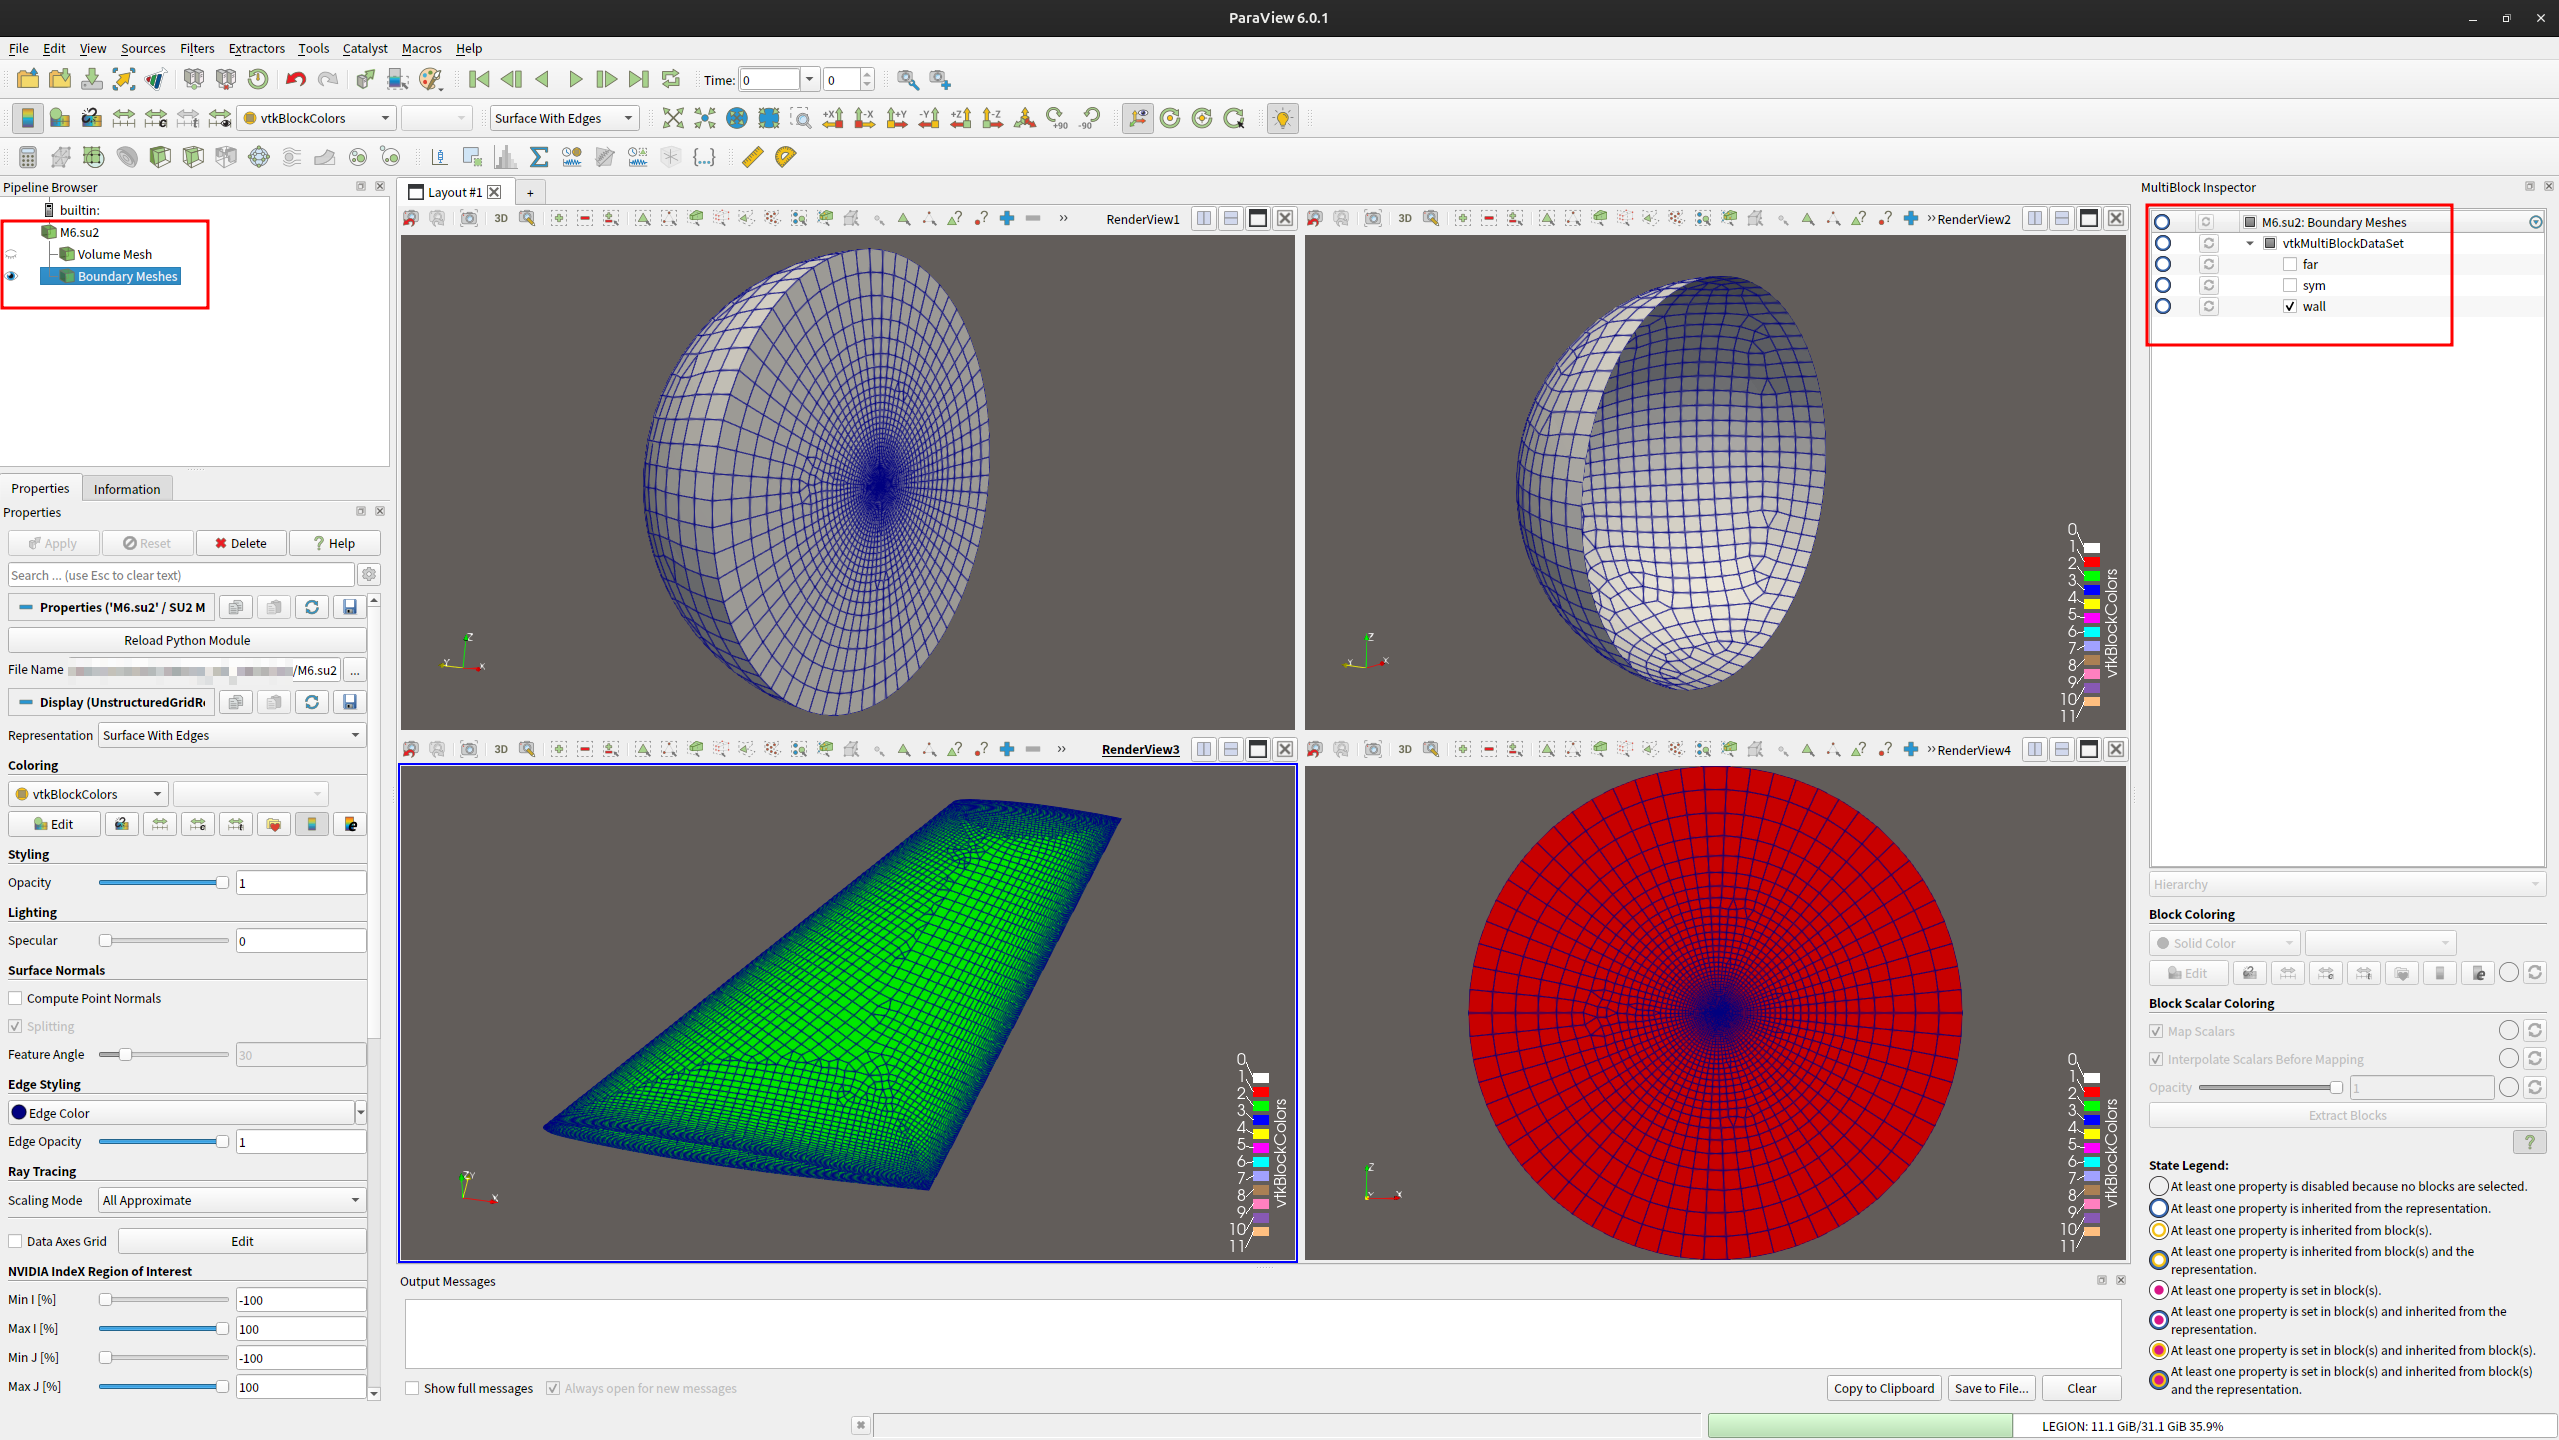
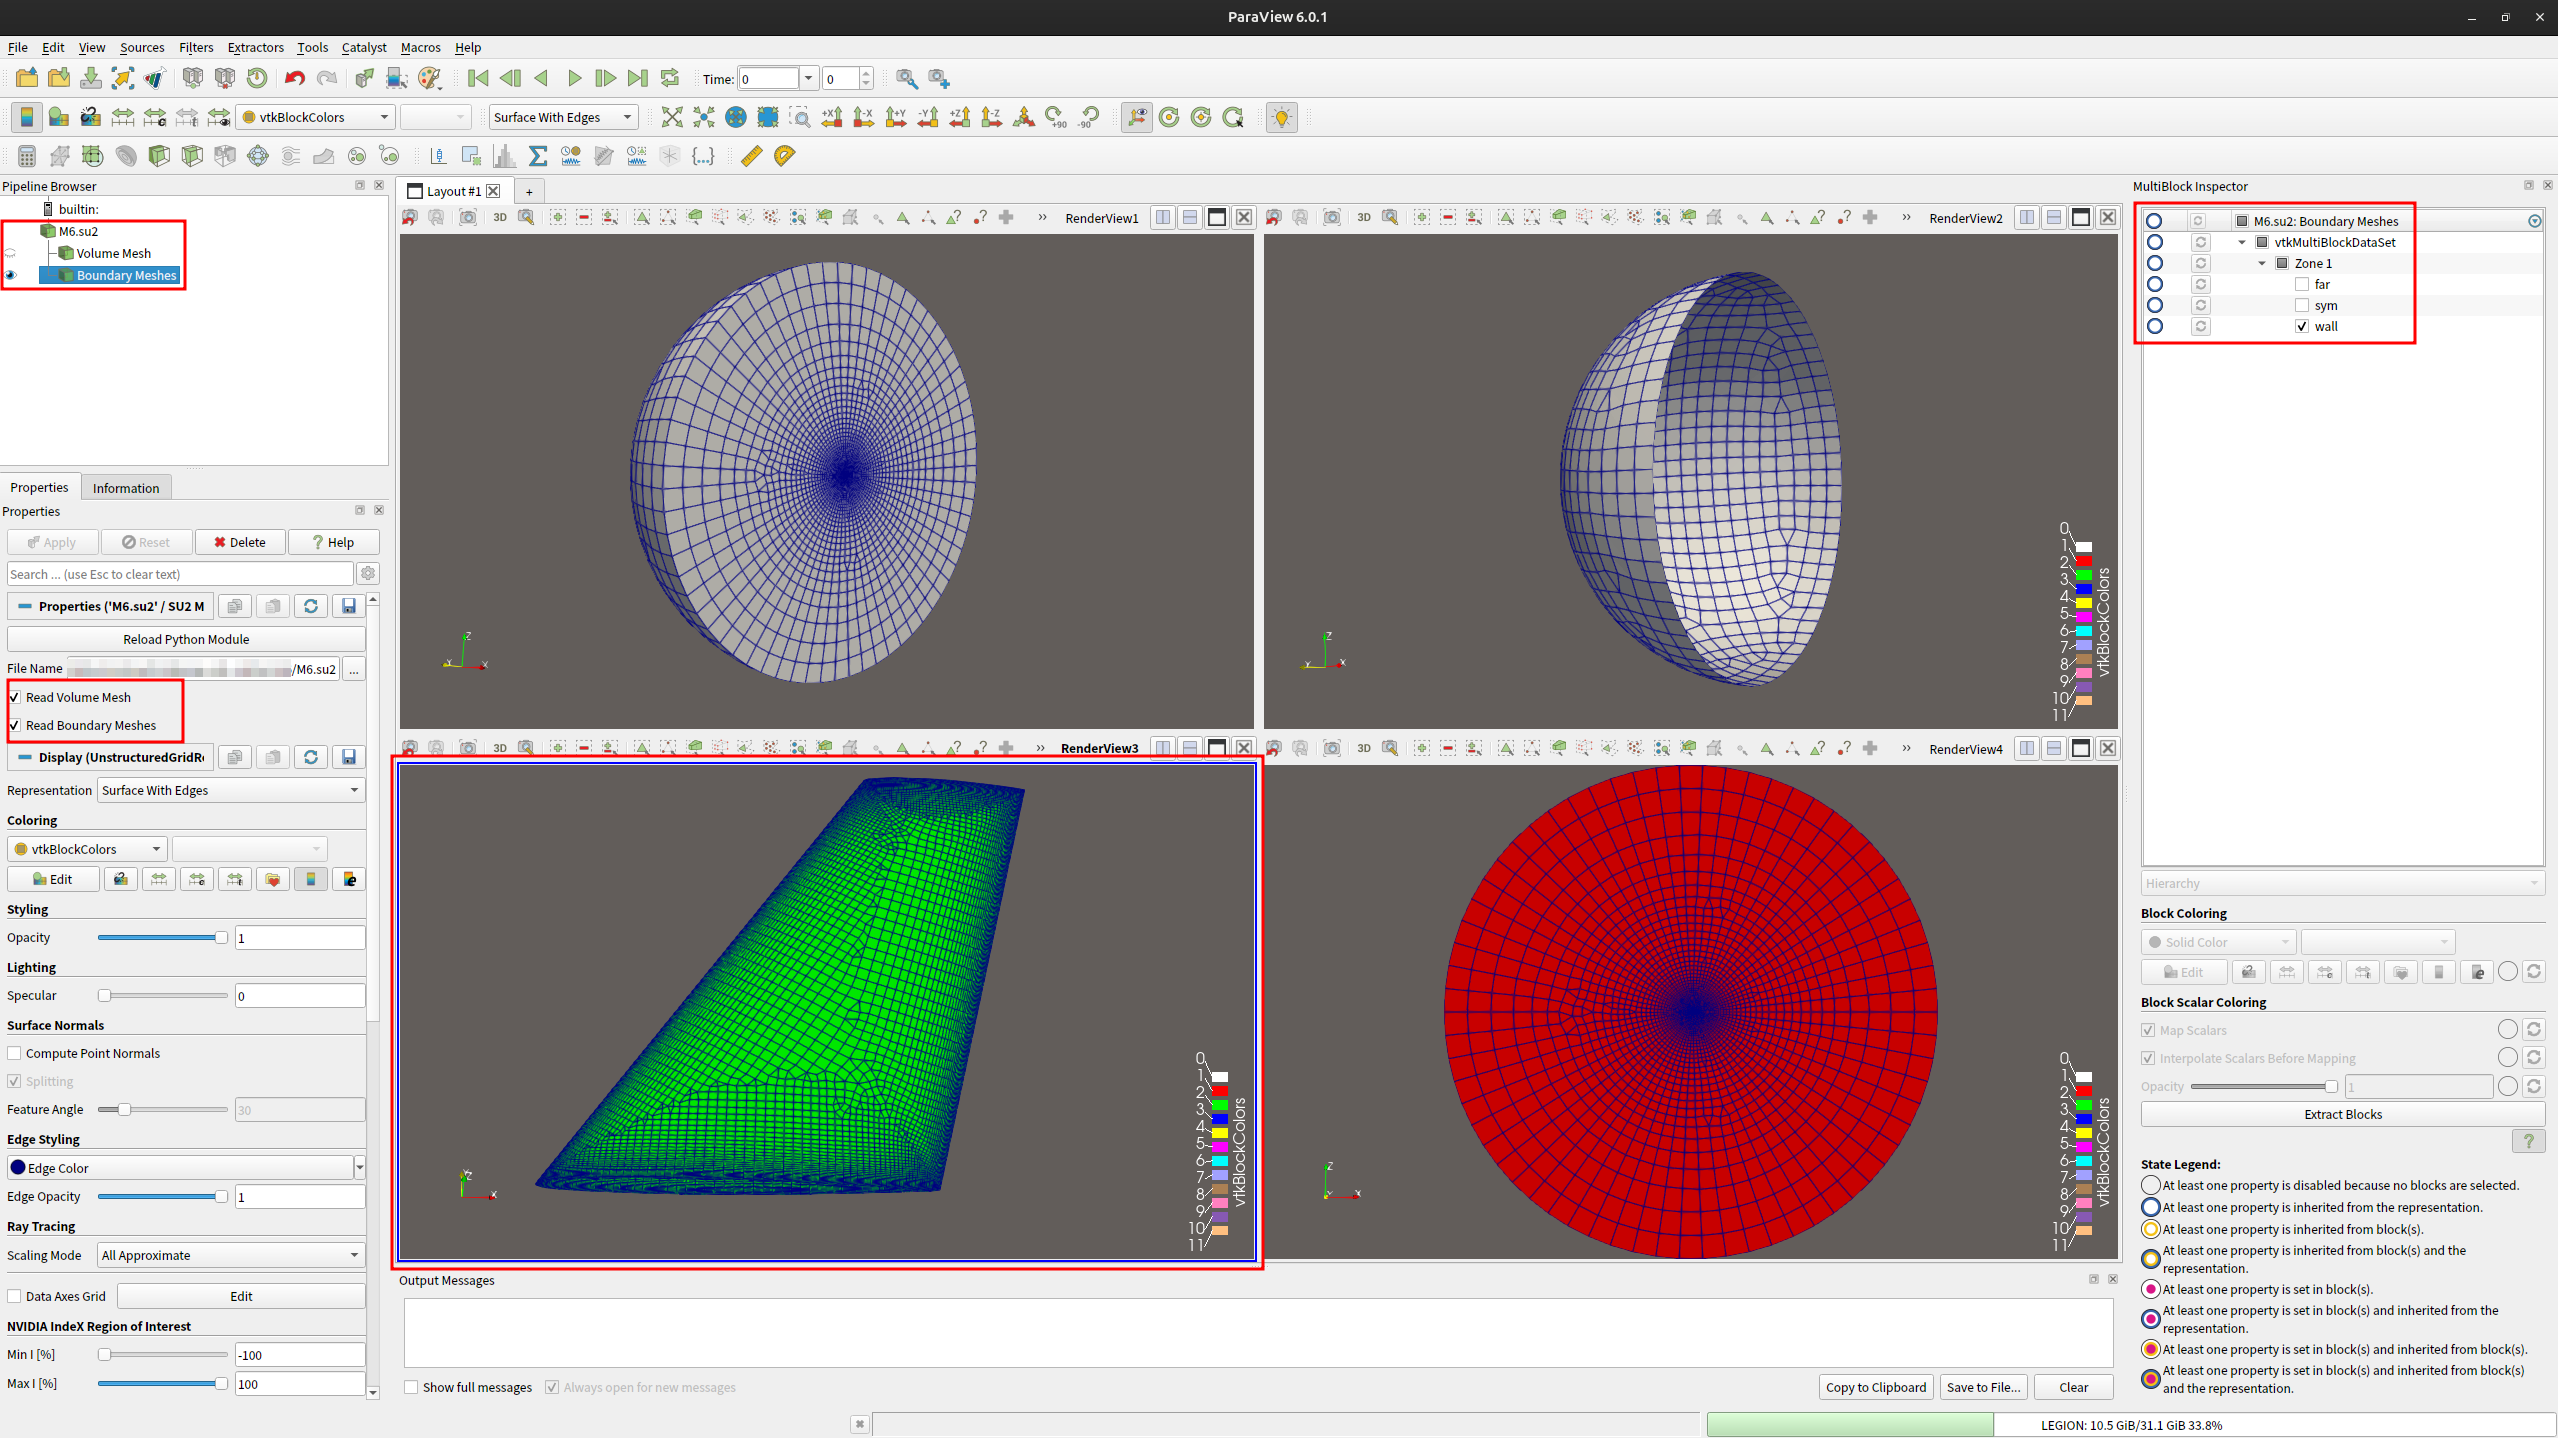
Update mesh loading instructions and screenshots

diff --git a/README.md b/README.md
@@ -7,7 +7,8 @@ mesh and boundary markers as separate outputs.
 
 Both 2D and 3D meshes are supported, including triangles, quadrilaterals,
 tetrahedra, hexahedra, prisms, and pyramids. Boundary markers retain their SU2
-names and can be displayed individually.
+names and can be displayed individually. Multi-zone files using `NZONE` and
+`IZONE` are supported.
 
 ## Installation
 
@@ -28,29 +29,43 @@ Tested with ParaView 6.0.1 on Ubuntu 24.04 LTS and ParaView 5.13.3 on Windows 11
 
 ## Usage
 
-### Open a mesh
+### Load a mesh
 
-Open a `.su2` file through File > Open and click Apply. If ParaView asks for a
-reader, choose SU2 Mesh Reader.
+Open a `.su2` file through File > Open. If ParaView asks for a reader, choose
+SU2 Mesh Reader.
+
+In Properties, choose what to read using Read Volume Mesh and Read Boundary
+Meshes, then click Apply. Both are enabled by default and apply to single-zone
+and multi-zone files alike. To load only the boundaries, uncheck Read Volume Mesh.
 
 Expand the reader in the Pipeline Browser to access its outputs:
 
 | Output | Contents |
 | --- | --- |
-| Volume Mesh | All interior elements |
-| Boundary Meshes | One block per boundary marker |
+| Volume Mesh | Interior mesh blocks, one per zone |
+| Boundary Meshes | Boundary markers grouped by zone |
 
 Use the eye icons beside the outputs to switch their visibility. Select Surface
 With Edges to show the mesh edges.
 
-### Select boundary markers
+### Show boundary markers
 
 1. Open View > MultiBlock Inspector.
 2. Select Boundary Meshes in the Pipeline Browser and click its eye icon to show it.
-3. Expand the block tree to see the marker names.
+3. Expand a zone in the block tree to see its marker names.
 4. Use the checkboxes to show or hide individual markers.
 
 ![Output ports and boundary marker controls highlighted in ParaView](docs/screenshots/boundary-selection.png)
+
+### Multi-zone meshes
+
+Each zone is listed separately in the MultiBlock Inspector. Select Volume Mesh
+to control zone visibility, or Boundary Meshes to select markers within each
+zone. Single-zone meshes appear under Zone 1.
+
+The example below shows the boundary meshes of a five-zone pipe.
+
+![Boundaries of a five-zone pipe, with boundary-only loading and the zone hierarchy highlighted](docs/screenshots/multizone.png)
 
 ## License
 
